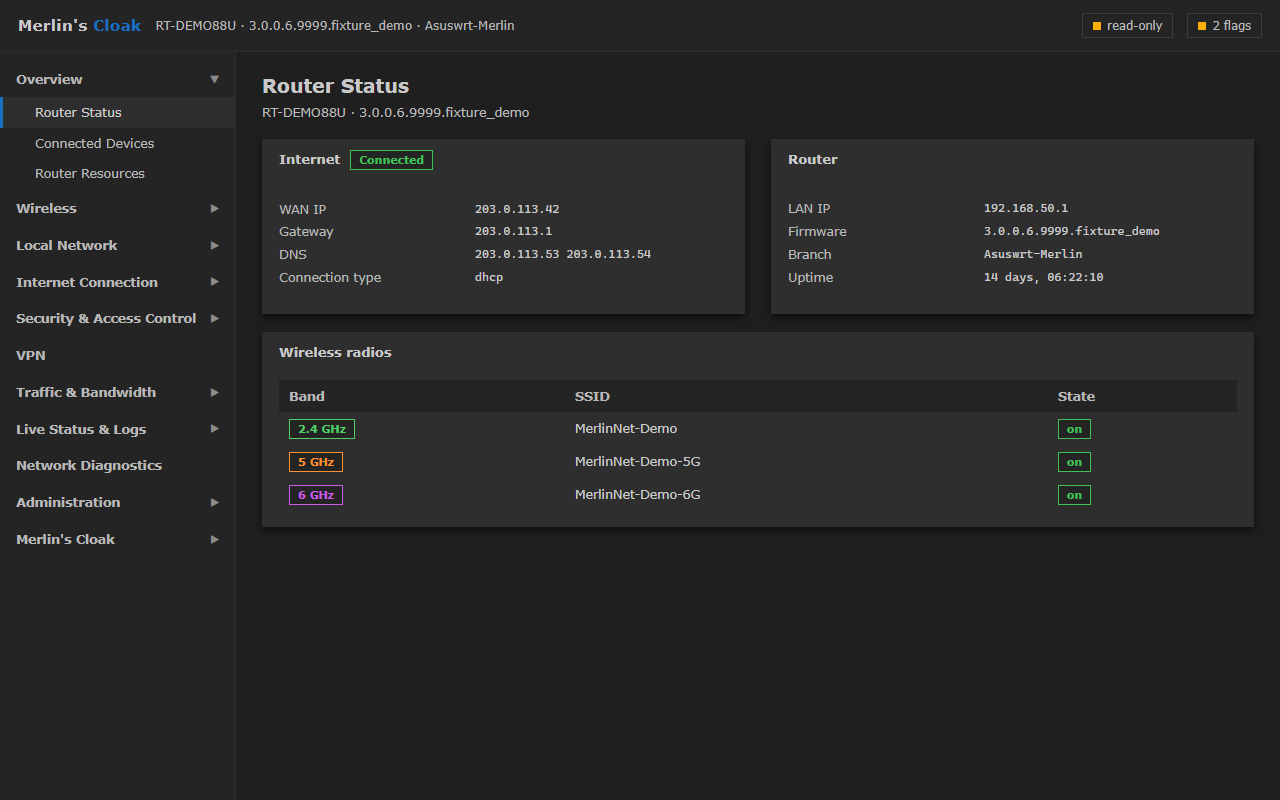
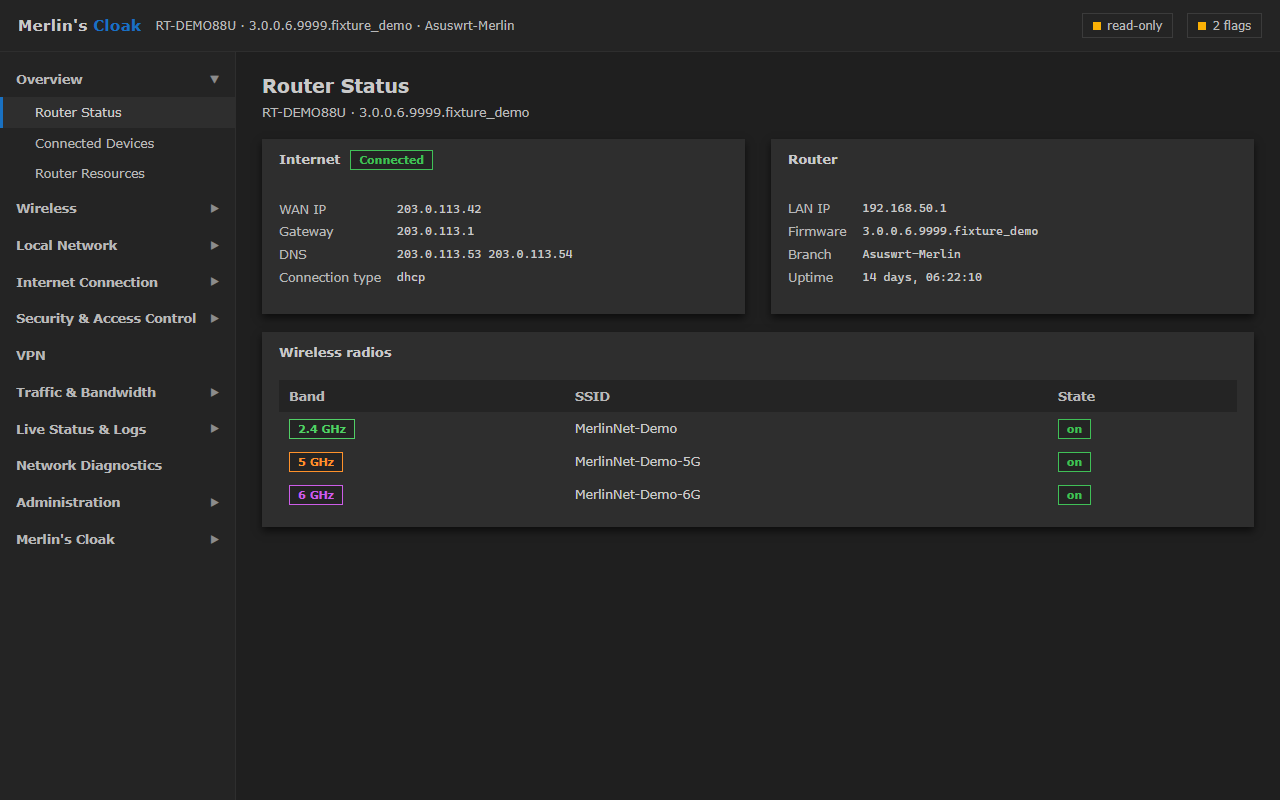
fix: narrow-window layout — content-width collapse, no mid-token wraps
Three verified root causes from the operator's live report at a ~958px
window (content area ~670px after the 236px nav): the .mc-kv label
track's hard 180px floor starved value columns in narrow cards (now
fit-content(180px)); word-break: break-all fractured atomic tokens
('Asuswrt-Merli'/'n', 'AR Mv8' — now default word-boundary wrapping,
with genuinely atomic values marked .mc-nowrap and figure+unit pairs
NBSP-glued so they never split); and the 900px viewport media query
never fired because the panel's usable width is viewport minus nav —
.mc-main is now an inline-size container and the 2-column/kv/row
collapse keys off @container (max-width: 760px). Verified 640-1280px
in the harness; sysinfo fixtures added (page previously rendered blank
standalone). Store screenshots re-captured for the affected views.

Changed region(s): [[0.6562, 0.25, 0.9062, 0.375], [0.3125, 0.25, 0.5, 0.375]]

diff --git a/src/pages/defs/nettools.tsx b/src/pages/defs/nettools.tsx
@@ -24,12 +24,20 @@ interface SysinfoScalars {
   driverVersions: string[];
 }
 
-/** sysinfo memory.* values arrive pre-scaled in MB (live-observed, e.g. "993.76"). */
+/**
+ * sysinfo memory.* values arrive pre-scaled in MB (live-observed, e.g.
+ * "993.76"). Joins the number to its unit with a non-breaking space so a
+ * figure like "993.76 MB" can never wrap between the number and the unit —
+ * it's one atomic byte-size figure, not two separately-wrappable words —
+ * the same class of defect as the dashboard's firmware/branch strings, just
+ * glued instead of forbidden from wrapping outright, since these figures
+ * still need to wrap *between* the "/"-separated triplet.
+ */
 function fmtMb(v: string): string {
   const n = Number(v);
   if (Number.isNaN(n)) return v || '—';
-  if (n >= 1024) return `${(n / 1024).toFixed(2)} GB`;
-  return `${n} MB`;
+  if (n >= 1024) return `${(n / 1024).toFixed(2)}\u00A0GB`;
+  return `${n}\u00A0MB`;
 }
 
 /** Scalar hook output may carry HTML entities (live-observed: cpu.model has &nbsp;). */
@@ -115,7 +123,7 @@ function SysinfoPage(_props: PageProps) {
             <dt>Model</dt>
             <dd>
               {scalars?.cpuModel || '—'}
-              {scalars?.cpuFreq ? ` @ ${scalars.cpuFreq} MHz` : ''}
+              {scalars?.cpuFreq ? ` @ ${scalars.cpuFreq}\u00A0MHz` : ''}
             </dd>
             <dt>Load (1 / 5 / 15 min)</dt>
             <dd>{feed.cpuLoad.join(' / ') || '—'}</dd>
@@ -144,7 +152,7 @@ function SysinfoPage(_props: PageProps) {
             <dt>nvram usage</dt>
             <dd>
               {mem[6] || '—'}
-              {scalars?.nvramTotal ? ` / ${scalars.nvramTotal} bytes` : ''}
+              {scalars?.nvramTotal ? ` / ${scalars.nvramTotal}\u00A0bytes` : ''}
             </dd>
             <dt>JFFS free</dt>
             <dd>{mem[7] || '—'}</dd>
@@ -156,7 +164,8 @@ function SysinfoPage(_props: PageProps) {
           <dt>Tracked / active</dt>
           <dd>
             {feed.connStats[0] ?? '—'}
-            {scalars?.connMax ? ` / ${scalars.connMax} max` : ''} · {feed.connStats[1] ?? '—'} active
+            {scalars?.connMax ? ` / ${scalars.connMax}\u00A0max` : ''} ·{' '}
+            {`${feed.connStats[1] ?? '—'}\u00A0active`}
           </dd>
         </dl>
       </Card>
@@ -178,9 +187,18 @@ function SysinfoPage(_props: PageProps) {
         <Card title="Firmware components">
           <dl className="mc-kv">
             <dt>Bootloader (CFE)</dt>
-            <dd>{scalars?.cfeVersion || '—'}</dd>
+            <dd className="mc-nowrap">{scalars?.cfeVersion || '—'}</dd>
             <dt>Wireless driver</dt>
-            <dd>{scalars?.driverVersions.join(' · ') || '—'}</dd>
+            <dd>
+              {scalars?.driverVersions.length
+                ? scalars.driverVersions.map((v, i) => (
+                    <span key={i}>
+                      {i > 0 ? ' · ' : ''}
+                      <span className="mc-nowrap">{v}</span>
+                    </span>
+                  ))
+                : '—'}
+            </dd>
           </dl>
         </Card>
       )}

diff --git a/src/theme/css.ts b/src/theme/css.ts
@@ -471,12 +471,48 @@ ${varsToCssLines(buildThemeVars())}
 }
 @keyframes mc-spin { to { transform: rotate(360deg); } }
 .mc-empty { color: var(--fujin-text-muted); text-align: center; padding: 26px 0; font-size: 12.5px; }
-.mc-kv { display: grid; grid-template-columns: minmax(180px, max-content) minmax(0, 1fr); gap: 4px 16px; font-size: 12.5px; }
+/*
+ * .mc-kv label track: fit-content(180px) sizes the column to its actual
+ * content (so short labels like "Uptime" don't force 180px of dead space in
+ * a narrow card) while still capping it at 180px for long labels — a hard
+ * minmax(180px, …) floor was starving the value column in the ~320px-wide
+ * cards a 236px-nav + ~700px-content window produces. .mc-kv dd drops
+ * word-break: break-all (which sliced
+ * tokens at ANY character, e.g. "Asuswrt-Merlin" -> "Asuswrt-Merli"/"n") for
+ * plain word-boundary wrapping (the browser default: wrap at a space, never
+ * mid-token — overflow-wrap is deliberately left at its normal default
+ * rather than break-word/anywhere, which would still fracture a single
+ * unbroken atomic token as a last resort). Genuinely atomic values (IPs,
+ * firmware strings, branch/product identifiers, …) are marked .mc-nowrap
+ * at the call site instead of ever being allowed to break — see
+ * dashboard.tsx / nettools.tsx / extension.tsx. A value that still can't
+ * fit its column overflows/clips (inside .mc-card's overflow: hidden)
+ * rather than fracturing — the width fixes above (fit-content label track,
+ * content-width card collapse) are what keep that from being needed in
+ * practice.
+ */
+.mc-kv { display: grid; grid-template-columns: fit-content(180px) minmax(0, 1fr); gap: 4px 16px; font-size: 12.5px; }
 .mc-kv dt { color: var(--fujin-text-secondary); }
-.mc-kv dd { margin: 0; font-family: var(--fujin-font-family-mono); font-size: 12px; word-break: break-all; }
+.mc-kv dd { margin: 0; font-family: var(--fujin-font-family-mono); font-size: 12px; }
+.mc-nowrap { white-space: nowrap; }
 .mc-grid-2 { display: grid; grid-template-columns: 1fr 1fr; gap: 0 26px; }
-@media (max-width: 900px) {
+
+/*
+ * Content-width breakpoints, not viewport-width ones. This panel is a
+ * shadow-DOM overlay that fills the viewport, but its *usable content area*
+ * is (viewport width − 236px nav − 26px×2 .mc-main padding), so a
+ * viewport-based @media (max-width: …) query fires late: at a live-
+ * observed 958px-wide operator window the content area is only ~670px, yet
+ * a naive 900px viewport media query stays in the wide (2-column) branch
+ * the whole time, starving the two side-by-side cards. .mc-main is
+ * established as an inline-size query container so .mc-grid-2 / .mc-kv
+ * / .mc-row collapse based on the space they actually have.
+ */
+.mc-main { container-type: inline-size; }
+@container (max-width: 760px) {
   .mc-grid-2 { grid-template-columns: 1fr; }
+  .mc-kv { grid-template-columns: 1fr; row-gap: 2px; }
+  .mc-kv dd { margin-bottom: 4px; }
   .mc-row { flex-direction: column; align-items: flex-start; gap: 4px; }
   .mc-row__label { flex-basis: auto; }
 }

diff --git a/tools/screenshot-harness/mocks/fixtures.ts b/tools/screenshot-harness/mocks/fixtures.ts
@@ -88,6 +88,29 @@ export const FIXTURE_UPTIME_RAW =
   'Fri, 31 Jul 2026 09:15:22 GMT(14 days, 06:22:10 since boot)';
 
 /**
+ * sysinfo("...") scalar hooks (Tools_Sysinfo.asp / pages/defs/nettools.tsx).
+ * Keyed by the bare arg (the part inside the quotes) — the mock's appGet
+ * handler (mocks/router-fetch.ts) prefixes it back to "sysinfo-<arg>" to
+ * match the real firmware's key-naming convention for parenthesized scalar
+ * hooks. Values are realistic-length FICTIONAL strings chosen specifically
+ * to reproduce the narrow-viewport overflow defects (long CPU model/hwaccel
+ * strings) rather than the short placeholders a real quick-look might use.
+ */
+export const FIXTURE_SYSINFO_SCALARS: Record<string, string> = {
+  'cpu.model': 'BCM6765 - ARMv8 (Cores: 4)',
+  'cpu.freq': '2000',
+  'conn.max': '262144',
+  'nvram.total': '262144',
+  'jffs.total': '15616',
+  cfe_version: '1.0.1.9',
+  'hwaccel.runner': 'Enabled',
+  'hwaccel.fc': 'Enabled',
+  'driver_version.0': '9.30.113.0',
+  'driver_version.1': '9.30.113.0',
+  'driver_version.2': '9.30.113.0',
+};
+
+/**
  * get_wclientlist() — bridge → band → station-MAC → details. Only the MAC
  * keys are read (lib/pages/defs/clients.tsx); the per-station array contents
  * are never inspected, so empty arrays are fine.
@@ -117,12 +140,20 @@ export function buildLeaseArrayPayload(): string {
   return `leasearray = ${JSON.stringify(rows)};`;
 }
 
-/** ajax_sysinfo.asp (Merlin-only feed; also used as the branch-detection probe). */
+/**
+ * ajax_sysinfo.asp (Merlin-only feed; also used as the branch-detection
+ * probe). mem_stats_arr entries arrive pre-scaled in MB per
+ * pages/defs/nettools.tsx's fmtMb() comment (live-observed, e.g. "993.76"),
+ * so these are realistic MB-scale floats/ints for a ~1 GB router, not the
+ * placeholder KB-scale integers a naive fixture might use — those rendered
+ * as absurd "512.00 GB" totals and didn't exercise the real string lengths
+ * ("993.76 MB / 286.27 MB / 311.39 MB") that reproduce the overflow defect.
+ */
 export const FIXTURE_SYSINFO_TEXT = `
 wlc_0_arr = [3,3,3];
 wlc_1_arr = [2,2,2];
 wlc_2_arr = [1,1,1];
 conn_stats_arr = [842,210];
-mem_stats_arr = [524288,183260,9840,71232,0,0,4096,15360,393216,214000];
+mem_stats_arr = [993.76,286.27,18.42,71.23,0,0,164548,15616,393216,311.39];
 cpu_stats_arr = [8,11,14];
 `;

diff --git a/src/pages/defs/dashboard.tsx b/src/pages/defs/dashboard.tsx
@@ -114,23 +114,23 @@ export function DashboardPage({ caps }: PageProps) {
         <Card title="Internet" badge={<Badge tone={wan.tone}>{wan.label}</Badge>}>
           <dl className="mc-kv">
             <dt>WAN IP</dt>
-            <dd>{data.wanIp || '—'}</dd>
+            <dd className="mc-nowrap">{data.wanIp || '—'}</dd>
             <dt>Gateway</dt>
-            <dd>{data.wanGateway || '—'}</dd>
+            <dd className="mc-nowrap">{data.wanGateway || '—'}</dd>
             <dt>DNS</dt>
             <dd>{data.wanDns || '—'}</dd>
             <dt>Connection type</dt>
-            <dd>{data.wanProto || '—'}</dd>
+            <dd className="mc-nowrap">{data.wanProto || '—'}</dd>
           </dl>
         </Card>
         <Card title="Router">
           <dl className="mc-kv">
             <dt>LAN IP</dt>
-            <dd>{data.lanIp}</dd>
+            <dd className="mc-nowrap">{data.lanIp}</dd>
             <dt>Firmware</dt>
-            <dd>{caps.identity.displayVersion}</dd>
+            <dd className="mc-nowrap">{caps.identity.displayVersion}</dd>
             <dt>Branch</dt>
-            <dd>{caps.identity.branch === 'merlin' ? 'Asuswrt-Merlin' : caps.identity.branch}</dd>
+            <dd className="mc-nowrap">{caps.identity.branch === 'merlin' ? 'Asuswrt-Merlin' : caps.identity.branch}</dd>
             <dt>Uptime</dt>
             <dd>{data.uptimeStr || '—'}</dd>
           </dl>

diff --git a/src/pages/defs/extension.tsx b/src/pages/defs/extension.tsx
@@ -183,9 +183,9 @@ export function DiagnosticsPage({ caps }: PageProps) {
         <Card title="Detected router identity">
           <dl className="mc-kv">
             <dt>Product ID</dt>
-            <dd>{ident.productId}</dd>
+            <dd className="mc-nowrap">{ident.productId}</dd>
             <dt>Firmware version</dt>
-            <dd>{ident.displayVersion}</dd>
+            <dd className="mc-nowrap">{ident.displayVersion}</dd>
             <dt>Generation</dt>
             <dd>
               {ident.generation === 'asuswrt-50-wifi7'
@@ -195,9 +195,11 @@ export function DiagnosticsPage({ caps }: PageProps) {
                   : 'unknown'}
             </dd>
             <dt>Branch</dt>
-            <dd>{ident.branch === 'merlin' ? 'Asuswrt-Merlin' : ident.branch === 'stock' ? 'stock ASUSWRT' : 'unknown'}</dd>
+            <dd className="mc-nowrap">
+              {ident.branch === 'merlin' ? 'Asuswrt-Merlin' : ident.branch === 'stock' ? 'stock ASUSWRT' : 'unknown'}
+            </dd>
             <dt>LAN address</dt>
-            <dd>{ident.lanIp}</dd>
+            <dd className="mc-nowrap">{ident.lanIp}</dd>
             <dt>Flag source</dt>
             <dd>
               {caps.flagSource === 'main-world'

diff --git a/tools/screenshot-harness/mocks/router-fetch.ts b/tools/screenshot-harness/mocks/router-fetch.ts
@@ -15,6 +15,7 @@
  */
 import {
   FIXTURE_NVRAM,
+  FIXTURE_SYSINFO_SCALARS,
   FIXTURE_SYSINFO_TEXT,
   FIXTURE_UPTIME_RAW,
   FIXTURE_WCLIENTLIST,
@@ -63,6 +64,13 @@ function buildJsonEnvelope(hooks: string[]): string {
       out.uptime = FIXTURE_UPTIME_RAW;
     } else if (hook === 'get_wclientlist()') {
       out.get_wclientlist = FIXTURE_WCLIENTLIST;
+    } else if ((m = /^sysinfo\("([^"]+)"\)$/.exec(hook))) {
+      // Real firmware keys parenthesized sysinfo() scalar hooks as
+      // "sysinfo-<arg>" (see pages/defs/nettools.tsx: s['sysinfo-cpu.model']
+      // etc.) — fetchScalarHooks (lib/status-feeds.ts) text-scans the
+      // response for that exact key shape, so the fixture must reproduce it
+      // rather than the generic bare-hook-name fallback below.
+      out[`sysinfo-${m[1]}`] = FIXTURE_SYSINFO_SCALARS[m[1]] ?? '';
     } else {
       // Generic fallback for any hook this fixture set doesn't model
       // specifically: answer with the plain nvram value if we have one,
